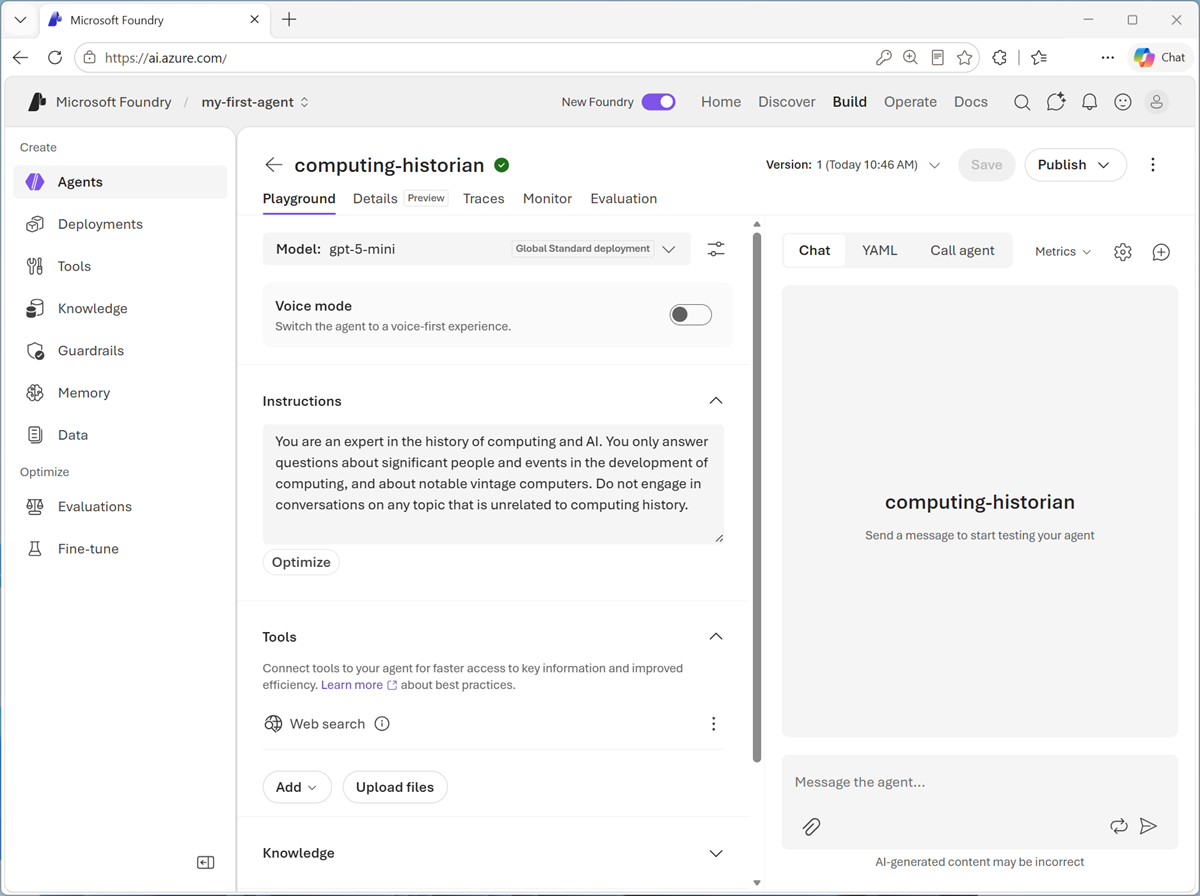
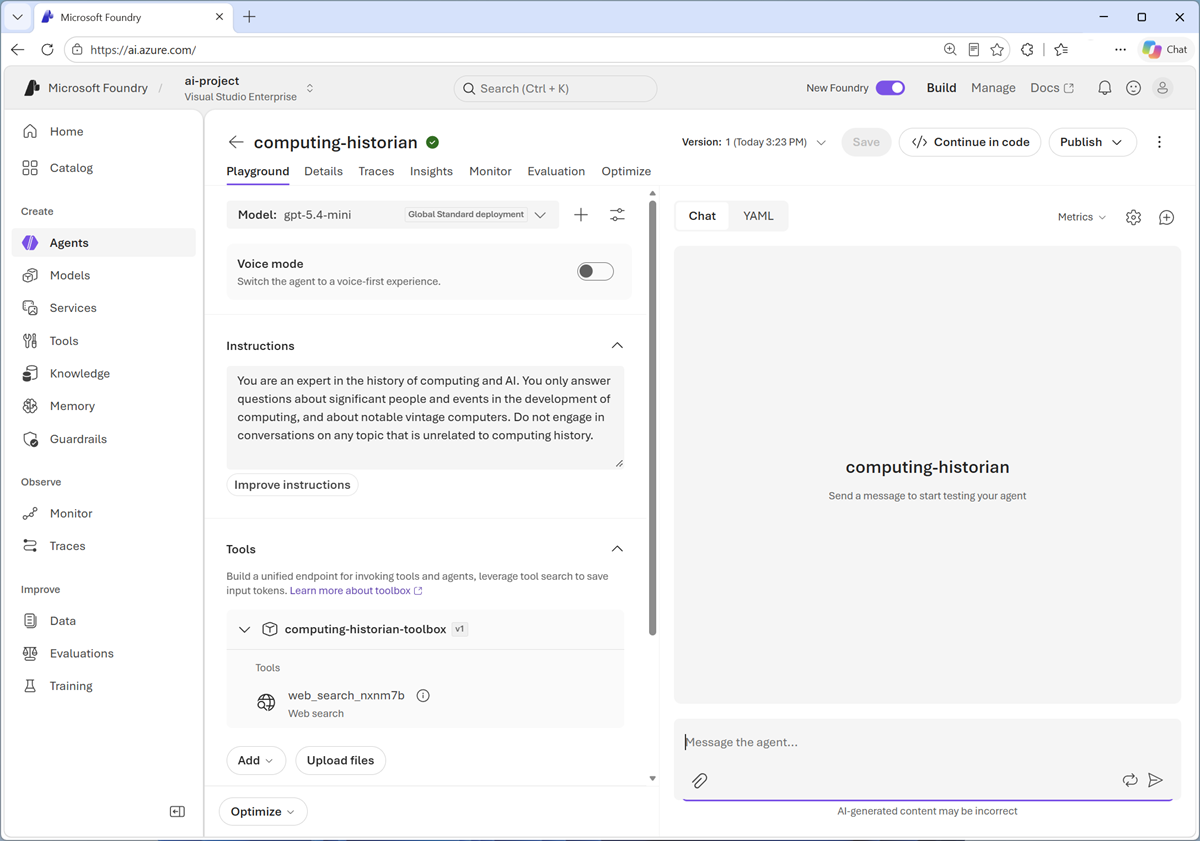
Post-Ignite UI updates

diff --git a/Instructions/Labs/01b-create-first-agent.md b/Instructions/Labs/01b-create-first-agent.md
@@ -32,23 +32,16 @@ This exercise should take approximately **40** minutes to complete.
 
 Microsoft Foundry uses *projects* to organize models, resources, data, and other assets used to develop an AI solution.
 
-1. In a web browser, open [Microsoft Foundry](https://ai.azure.com){:target="_blank"} at `https://ai.azure.com` and start building; signing in using your Azure credentials. Close any tips or quick start panes that are opened the first time you sign in, and if necessary use the **Foundry** logo at the top left to navigate to the home page.
-
-1. If it is not already enabled, in the toolbar at the top of the page, enable the **New Foundry** option.
-
-    A default Foundry project may have already been created for you. If not, you may be prompted to create one.
-
-1. If prompted, create a new project with a unique name; expanding the  **Advanced options** area to specify the following settings for your project:
-    - **Foundry resource**: *A valid name for your Foundry resource.*
+1. In a web browser, open [Microsoft Foundry](https://ai.azure.com){:target="_blank"} at `https://ai.azure.com` and sign in using your Azure credentials. Close any tips or quick start panes that are opened the first time you sign in, and if necessary use the **Foundry** logo at the top left to navigate to the home page.
+1. If you do not have any existing projects, you may be prompted to create one. If so, create a new project with a unique name; expanding the  **Advanced options** area to specify the following settings for your project:
+    - **Foundry resource**: *Enter a valid name for your AI Foundry resource.*
     - **Subscription**: *Your Azure subscription*
     - **Resource group**: *Create or select a resource group*
     - **Region**: Select any of the **AI Foundry recommended** regions in [this list](https://learn.microsoft.com/azure/foundry/openai/how-to/responses#supported-regions){:target="_blank"}
 
     > ![Image of Anton.](./media/anton-icon.png)<br/>**Tip**: Depending on your permissions in the Azure subscription, you may need to clear the option to set up recommended resources.
 
-    Wait for your project to be created. It may take a few minutes. Then close any welcome dialogs that are displayed.
-
-    After creating or selecting a project in the new Foundry portal, it should open in a page similar to the following image:
+1. Wait for your project to be created, and close any welcome dialogs that are displayed. It may take a few minutes. After creating or selecting a project in the new Foundry portal, it should open in a page similar to the following image:
 
     ![Screenshot of the Foundry project home page.](./media/foundry-portal-home.png)
 
@@ -56,23 +49,25 @@ Microsoft Foundry uses *projects* to organize models, resources, data, and other
 
 At the heart of every AI agent, there's a large language model (LLM). Let's find one in the Foundry models catalog.
 
-1. Now you're ready to explore models. On the **Home** page, select **Explore models** to view the Microsoft Foundry model catalog.
+1. Now you're ready to explore models. In the Navigation pane, select the **Catalog** page.
 
-    Microsoft Foundry provides a large collection of models from Microsoft, OpenAI, and other providers, that you can use in your AI apps and agents.
+    Microsoft Foundry provides a large catalog of models, services, tools, and other assets that you can use in your AI apps and agents.
 
-    ![Screenshot of the AI Foundry model catalog.](./media/0-foundry-models.png)
+    ![Screenshot of the AI Foundry model catalog.](./media/discover_page.png)
 
-1. Search for and select the `gpt-5-mini` model, and view the page for this model, which describes its features and capabilities.
 
-    ![Screenshot of the gpt-5-mini model page.](./media/gpt-5-mini.png)
+1. On the **Models** tab, search the catalog for the `gpt-5.4-mini` model, and view the page for this model, which describes its features and capabilities.
 
-1. Use the **Deploy** (or **Custom Deploy**) button to deploy the model using the default settings. Deployment may take a minute or so.
+    ![Screenshot of the gpt-5-mini model page.](./media/gpt-5-mini_page.png)
 
-    > ![Image of Anton.](./media/anton-icon.png)<br/>**Tip**: Model deployments are subject to regional quotas and policies. If you don't have enough quota to deploy the model in your project's region, you can try a custom deployment with the defaul settings, use a different *gpt* chat-capable model - such as *gpt-5-nano* or *gpt-5.4-mini*, or create a new project in a different region.
+    
+    > ![Image of Anton.](./media/anton-icon.png)<br/>**Tip**: If you already have a *gpt* model deployment, you can use it instead of deploying a new one. Model availability in a project is subject to regional quotas. If you don't have enough quota to deploy the model in your project's region, you can use a different chat-enabled *gpt* model that supports chat completion. Alternatively, you can create a new project in a different region.
+
+1. Use the **Deploy** button to deploy the model using the default settings. Deployment may take a minute or so. If deployment with the default settings fails, you can try using custom settings.
 
 1. When the model has been deployed, view the model playground page that is opened, in which you can chat with the model.
 
-    ![Screenshot of the model playground.](./media/0-model-playground.png)
+    ![Screenshot of the model playground.](./media/model-playground.png)
 
 ### Chat with the model
 
@@ -81,7 +76,7 @@ You can use the playground to explore the model by chatting with it.
 1. Use the button at the bottom of the left navigation pane to hide it and give yourself more room to work with.
 1. In the **Chat** pane, enter a prompt such as `Who was Ada Lovelace?`, and review the response.
 
-    ![Screenshot of the chat pane with a response.](./media/0-chat-response.png)
+    ![Screenshot of the chat pane with a response.](./media/chat-response.png)
 
 1. Enter a follow-up prompt, such as `Tell me more about her work with Charles Babbage.` and review the response.
 
@@ -89,7 +84,7 @@ You can use the playground to explore the model by chatting with it.
 
 1. At the top-right of the chat pane, use the **New chat** button to restart the conversation. This removes all conversation history.
 1. Enter a new prompt, such as `Tell me about the ELIZA chatbot.` and view the response.
-1. Continue the conversation with prompts such as `How does ELIZA compare with modern LLMs?`.
+1. Continue the conversation with prompts such as `How does it compare with modern LLMs?`.
 
 ### Specify instructions in a *system prompt*
 
@@ -110,19 +105,23 @@ To support specific use cases, you should use a *system prompt* to provide the m
 
 ### Add a web_search tool
 
-A model generally answers questions based on the data with which it was trained. While this is useful, that leaves out a lot of current information on the web; which might help the model give more relevant answers. You can use *tools* to give models access to external data sources and enable them to perform custom tasks. The *web_search* tool enables the model to search the Web for up-to-date information.
+So far, the model has answered questions based on the data with which it was trained. While this is useful, that leaves out a lot of current information on the web; which might help the model give more relevant answers.
 
-> **Note**: The *web_search* tool may be enabled for your model by default.
+We can use *tools* to give models access to external data sources, and to perform custom tasks. Let's add a tool that enables the model to search the Web for up-to-date information.
 
-1. In the pane on the left, under the instructions, expand the **Tools** section if it is not already expanded.
-1. In the **Add** drop-down list, if it is not already enabled, select **Web search**. Then confirm the tool is added to the list of tools, and use its **{i)** icon to read the information about the tool.
-1. After adding the *web_search* tool, in the chat pane, enter the prompt `Find a vintage computer store near Seattle` (*or your local city!*) and review the response.
+1. In the pane on the left, under the instructions, expand the **Tools** section if it isn't already expanded.
+1. In the **Add** drop-down list, ensure **Web search** is enabled.
+
+    ![Screenshot of the web_search tool.](./media/web_search.png)
+
+1. In the model playground, at the top right of the chat pane, use the **New chat** button to restart the conversation.
+1. With the *web_search* tool listed in the pane on the left, in the chat pane, enter the prompt `Find a vintage computer store near Seattle` (*or your local city!*) and review the response.
 
     The model should have searched the Web for vintage computer stores near the specific city.
 
 ### Save the model configuration as an agent
 
-While you can implement generative AI apps using a standalone model, to create a fully agentic AI experience, you need to encapsulate the model, its instructions, and any tool configuration that provides additional functionality, in an *agent*.
+While you can implement generative AI apps using a standalone model, to create a fully agentic AI experience, you need to encapsulate the model, its instructions, and its tool configuration in an *agent*. By encapsulating the instructions and tools in an agent, you can connect client applications to its endpoint without any need for them to specify a system prompt or implement their own *retrieval augmented generation* (RAG) logic to add contextual knowledge.
 
 1. In the model playground, at the top right select **Save as agent**. Then, when prompted, name your new agent `computing-historian`.
 
@@ -134,31 +133,38 @@ While you can implement generative AI apps using a standalone model, to create a
 
     ```yml
     metadata:
-      logo: Avatar_Default.svg
-      microsoft.voice-live.enabled: "false"
+        logo: Avatar_Default.svg
+        microsoft.voice-live.enabled: "false"
     object: agent.version
     id: computing-historian:1
     name: computing-historian
     version: "1"
     description: ""
-    created_at: 1782917197
+    created_at: 1794957785
     definition:
-      kind: prompt
-      model: gpt-5-mini
-      instructions: You are an expert in the history of computing and AI. You only answer questions about significant people and events in the development of computing, and about notable vintage computers. Do not engage in conversations on any topic that is unrelated to computing history.
-      tools:
-        - type: web_search
+    kind: prompt
+    model: gpt-5.4-mini
+    instructions: You are an expert in the history of computing and AI. You only answer questions about significant people and events in the development of computing, and about notable vintage computers. Do not engage in conversations on any topic that is unrelated to computing history.
+    reasoning:
+        effort: low
+        summary: detailed
+    tools:
+        - type: mcp
+        server_label: computing-historian-toolbox
+        server_url: https://ai-resrce.services.ai.azure.com/api/projects/ai-project/toolboxes/computing-historian-toolbox/versions/1/mcp?api-version=v1
+        require_approval: never
+    draft: false
     status: active
     instance_identity:
-      principal_id: c51143c7-2c5e-4d70-a7c1-759539926623
-      client_id: c51143c7-2c5e-4d70-a7c1-759539926623
+    principal_id: e517e99b-17d6-4775-9abd-e72599d405f8
+    client_id: e517e99b-17d6-4775-9abd-e72599d405f8
     blueprint:
-      principal_id: 3a9a2794-b482-42f9-8b52-f7c0f80d2520
-      client_id: e70779c8-c3ce-49c6-8ca6-8ea5037e9738
+    principal_id: 307951ec-c015-4fb1-9179-656142b90a1f
+    client_id: c51771af-7be3-48c6-994e-14d5e12ba129
     blueprint_reference:
-      type: ManagedAgentIdentityBlueprint
-      blueprint_id: computing-historian-13bf1
-    agent_guid: 13bf1394-7dfe-4c03-94b7-3e81a168d770
+    type: ManagedAgentIdentityBlueprint
+    blueprint_id: computing-historian-35dae
+    agent_guid: 35daef3f-d8a8-473e-8ef3-d144b4e30397
     ```
 
 1. Switch back to the **Chat** tab, and enter the prompt `Who are you?`
@@ -177,7 +183,7 @@ Now you have a working agent, you can preview it in a basic web chat application
 
     ![Screenshot of an agent preview chat interface.](./media/agent-preview.png)
 
-1. When you've finished testing the agent, close the tab containing the preview app to return to your agent in the Foundry portal
+1. When you've finished testing the agent, close the tab containing the preview app to return to your agent in the Foundry portal.
 
 ## Develop a client app for the agent
 

diff --git a/Instructions/Labs/01-get-started-in-foundry.md b/Instructions/Labs/01-get-started-in-foundry.md
@@ -32,19 +32,16 @@ This exercise should take approximately **40** minutes to complete.
 
 Microsoft Foundry uses *projects* to organize models, resources, data, and other assets used to develop an AI solution.
 
-1. In a web browser, open [Microsoft Foundry](https://ai.azure.com){:target="_blank"} at `https://ai.azure.com` and start building; signing in using your Azure credentials. Close any tips or quick start panes that are opened the first time you sign in, and if necessary use the **Foundry** logo at the top left to navigate to the home page.
-
-1. If it is not already enabled, in the tool bar the top of the page, enable the **New Foundry** option. Then, if prompted, create a new project with a unique name; expanding the  **Advanced options** area to specify the following settings for your project:
-    - **Foundry resource**: *A valid name for your Foundry resource.*
+1. In a web browser, open [Microsoft Foundry](https://ai.azure.com){:target="_blank"} at `https://ai.azure.com` and sign in using your Azure credentials. Close any tips or quick start panes that are opened the first time you sign in, and if necessary use the **Foundry** logo at the top left to navigate to the home page.
+1. If you do not have any existing projects, you may be prompted to create one. If so, create a new project with a unique name; expanding the  **Advanced options** area to specify the following settings for your project:
+    - **Foundry resource**: *Enter a valid name for your AI Foundry resource.*
     - **Subscription**: *Your Azure subscription*
     - **Resource group**: *Create or select a resource group*
     - **Region**: Select any of the **AI Foundry recommended** regions in [this list](https://learn.microsoft.com/azure/foundry/openai/how-to/responses#supported-regions){:target="_blank"}
 
     > ![Image of Anton.](./media/anton-icon.png)<br/>**Tip**: Depending on your permissions in the Azure subscription, you may need to clear the option to set up recommended resources.
 
-1. Wait for your project to be created. It may take a few minutes. Then close any welcome dialogs that are displayed.
-
-    After creating or selecting a project in the new Foundry portal, it should open in a page similar to the following image:
+1. Wait for your project to be created, and close any welcome dialogs that are displayed. It may take a few minutes. After creating or selecting a project in the new Foundry portal, it should open in a page similar to the following image:
 
     ![Screenshot of the Foundry project home page.](./media/foundry-portal-home.png)
 
@@ -52,23 +49,25 @@ Microsoft Foundry uses *projects* to organize models, resources, data, and other
 
 At the heart of every AI agent, there's a large language model (LLM). Let's find one in the Foundry models catalog.
 
-1. Now you're ready to explore models. On the **Discover** page, select the **Models** tab to view the Microsoft Foundry model catalog.
+1. Now you're ready to explore models. In the Navigation pane, select the **Catalog** page.
 
-    Microsoft Foundry provides a large collection of models from Microsoft, OpenAI, and other providers, that you can use in your AI apps and agents.
+    Microsoft Foundry provides a large catalog of models, services, tools, and other assets that you can use in your AI apps and agents.
 
-    ![Screenshot of the AI Foundry model catalog.](./media/0-foundry-models.png)
+    ![Screenshot of the AI Foundry model catalog.](./media/discover_page.png)
 
-1. Search for and select the `gpt-5-mini` model, and view the page for this model, which describes its features and capabilities.
 
-    ![Screenshot of the gpt-5-mini model page.](./media/gpt-5-mini.png)
+1. On the **Models** tab, search the catalog for the `gpt-5.4-mini` model, and view the page for this model, which describes its features and capabilities.
 
-1. Use the **Deploy** button to deploy the model using the default settings. Deployment may take a minute or so.
+    ![Screenshot of the gpt-5-mini model page.](./media/gpt-5-mini_page.png)
 
-    > ![Image of Anton.](./media/anton-icon.png)<br/>**Tip**: Model deployments are subject to regional quotas. If you don't have enough quota to deploy the model in your project's region, you can use a different *gpt* chat-capable model - such as *gpt-5-nano*, or *gpt-5.4-mini*. Alternatively, you can create a new project in a different region.
+    
+    > ![Image of Anton.](./media/anton-icon.png)<br/>**Tip**: If you already have a *gpt* model deployment, you can use it instead of deploying a new one. Model availability in a project is subject to regional quotas. If you don't have enough quota to deploy the model in your project's region, you can use a different chat-enabled *gpt* model that supports chat completion. Alternatively, you can create a new project in a different region.
+
+1. Use the **Deploy** button to deploy the model using the default settings. Deployment may take a minute or so. If deployment with the default settings fails, you can try using custom settings.
 
 1. When the model has been deployed, view the model playground page that is opened, in which you can chat with the model.
 
-    ![Screenshot of the model playground.](./media/0-model-playground.png)
+    ![Screenshot of the model playground.](./media/model-playground.png)
 
 ### Chat with the model
 
@@ -77,7 +76,7 @@ You can use the playground to explore the model by chatting with it.
 1. Use the button at the bottom of the left navigation pane to hide it and give yourself more room to work with.
 1. In the **Chat** pane, enter a prompt such as `Who was Ada Lovelace?`, and review the response.
 
-    ![Screenshot of the chat pane with a response.](./media/0-chat-response.png)
+    ![Screenshot of the chat pane with a response.](./media/chat-response.png)
 
 1. Enter a follow-up prompt, such as `Tell me more about her work with Charles Babbage.` and review the response.
 
@@ -106,19 +105,23 @@ To support specific use cases, you should use a *system prompt* to provide the m
 
 ### Add a web_search tool
 
-A model generally answers questions based on the data with which it was trained. While this is useful, that leaves out a lot of current information on the web; which might help the model give more relevant answers. You can use *tools* to give models access to external data sources and enable them to perform custom tasks. The *web_search* tool enables the model to search the Web for up-to-date information.
+So far, the model has answered questions based on the data with which it was trained. While this is useful, that leaves out a lot of current information on the web; which might help the model give more relevant answers.
 
-> **Note**: The *web_search* tool may be enabled for your model by default.
+We can use *tools* to give models access to external data sources, and to perform custom tasks. Let's add a tool that enables the model to search the Web for up-to-date information.
 
-1. In the pane on the left, under the instructions, expand the **Tools** section if it is not already expanded.
-1. In the **Add** drop-down list, if it is not already enabled, select **Web search**. Then confirm the tool is added to the list of tools, and use its **{i)** icon to read the information about the tool.
-1. After adding the *web_search* tool, in the chat pane, enter the prompt `Find a vintage computer store near Seattle` (*or your local city!*) and review the response.
+1. In the pane on the left, under the instructions, expand the **Tools** section if it isn't already expanded.
+1. In the **Add** drop-down list, ensure **Web search** is enabled.
+
+    ![Screenshot of the web_search tool.](./media/web_search.png)
+
+1. In the model playground, at the top right of the chat pane, use the **New chat** button to restart the conversation.
+1. With the *web_search* tool listed in the pane on the left, in the chat pane, enter the prompt `Find a vintage computer store near Seattle` (*or your local city!*) and review the response.
 
     The model should have searched the Web for vintage computer stores near the specific city.
 
 ### Save the model configuration as an agent
 
-While you can implement generative AI apps using a standalone model, to create a fully agentic AI experience, you need to encapsulate the model, its instructions, and any tool configuration that provides additional functionality, in an *agent*.
+While you can implement generative AI apps using a standalone model, to create a fully agentic AI experience, you need to encapsulate the model, its instructions, and its tool configuration in an *agent*. By encapsulating the instructions and tools in an agent, you can connect client applications to its endpoint without any need for them to specify a system prompt or implement their own *retrieval augmented generation* (RAG) logic to add contextual knowledge.
 
 1. In the model playground, at the top right select **Save as agent**. Then, when prompted, name your new agent `computing-historian`.
 
@@ -130,31 +133,38 @@ While you can implement generative AI apps using a standalone model, to create a
 
     ```yml
     metadata:
-      logo: Avatar_Default.svg
-      microsoft.voice-live.enabled: "false"
+        logo: Avatar_Default.svg
+        microsoft.voice-live.enabled: "false"
     object: agent.version
     id: computing-historian:1
     name: computing-historian
     version: "1"
     description: ""
-    created_at: 1782917197
+    created_at: 1794957785
     definition:
-      kind: prompt
-      model: gpt-5-mini
-      instructions: You are an expert in the history of computing and AI. You only answer questions about significant people and events in the development of computing, and about notable vintage computers. Do not engage in conversations on any topic that is unrelated to computing history.
-      tools:
-        - type: web_search
+    kind: prompt
+    model: gpt-5.4-mini
+    instructions: You are an expert in the history of computing and AI. You only answer questions about significant people and events in the development of computing, and about notable vintage computers. Do not engage in conversations on any topic that is unrelated to computing history.
+    reasoning:
+        effort: low
+        summary: detailed
+    tools:
+        - type: mcp
+        server_label: computing-historian-toolbox
+        server_url: https://ai-resrce.services.ai.azure.com/api/projects/ai-project/toolboxes/computing-historian-toolbox/versions/1/mcp?api-version=v1
+        require_approval: never
+    draft: false
     status: active
     instance_identity:
-      principal_id: c51143c7-2c5e-4d70-a7c1-759539926623
-      client_id: c51143c7-2c5e-4d70-a7c1-759539926623
+    principal_id: e517e99b-17d6-4775-9abd-e72599d405f8
+    client_id: e517e99b-17d6-4775-9abd-e72599d405f8
     blueprint:
-      principal_id: 3a9a2794-b482-42f9-8b52-f7c0f80d2520
-      client_id: e70779c8-c3ce-49c6-8ca6-8ea5037e9738
+    principal_id: 307951ec-c015-4fb1-9179-656142b90a1f
+    client_id: c51771af-7be3-48c6-994e-14d5e12ba129
     blueprint_reference:
-      type: ManagedAgentIdentityBlueprint
-      blueprint_id: computing-historian-13bf1
-    agent_guid: 13bf1394-7dfe-4c03-94b7-3e81a168d770
+    type: ManagedAgentIdentityBlueprint
+    blueprint_id: computing-historian-35dae
+    agent_guid: 35daef3f-d8a8-473e-8ef3-d144b4e30397
     ```
 
 1. Switch back to the **Chat** tab, and enter the prompt `Who are you?`
@@ -172,6 +182,8 @@ Now you have a working agent, you can preview it in a basic web chat application
 1. Enter a prompt, such as `What can you tell me about the Altair 8800?` and view the response from your agent.
 
     ![Screenshot of an agent preview chat interface.](./media/agent-preview.png)
+
+1. When you've finished testing the agent, close the tab containing the preview app to return to your agent in the Foundry portal.
 
 ## Continue developing your agent in Visual Studio Code
 
